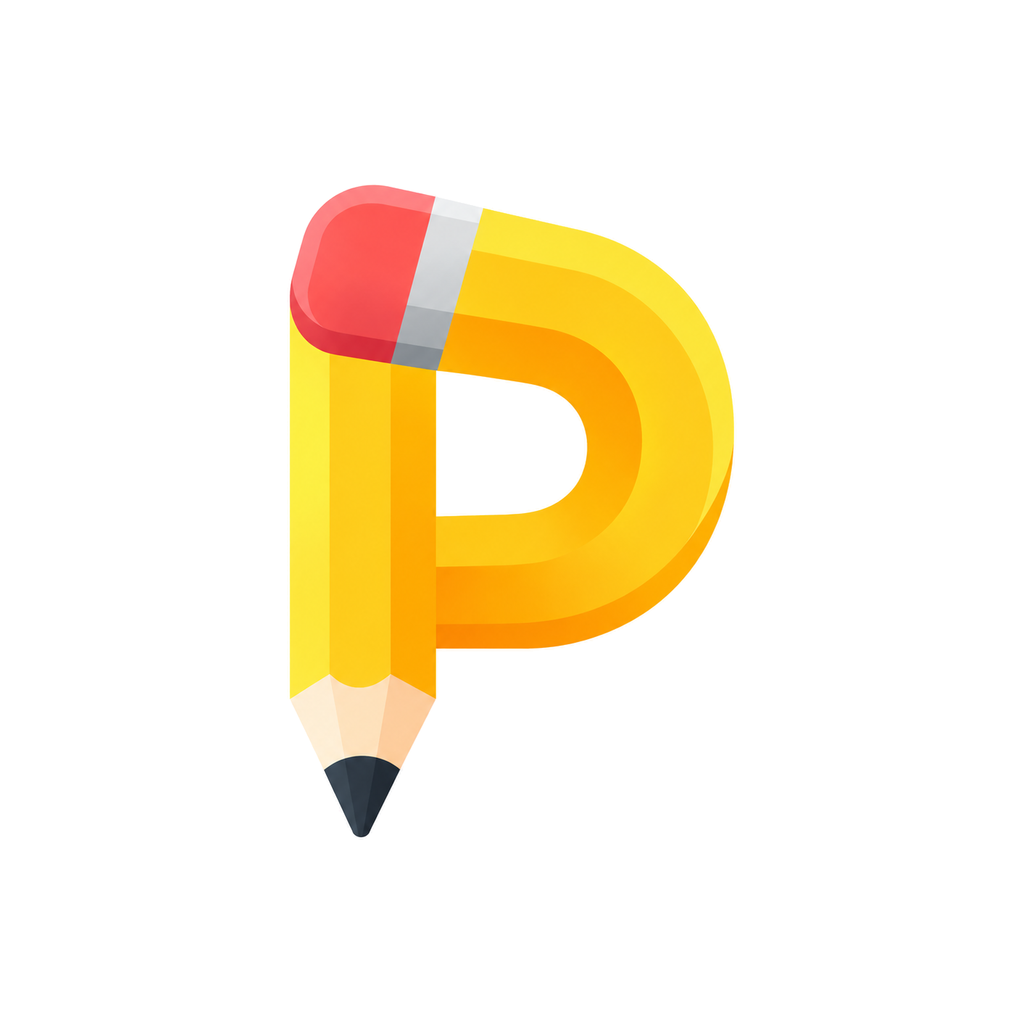
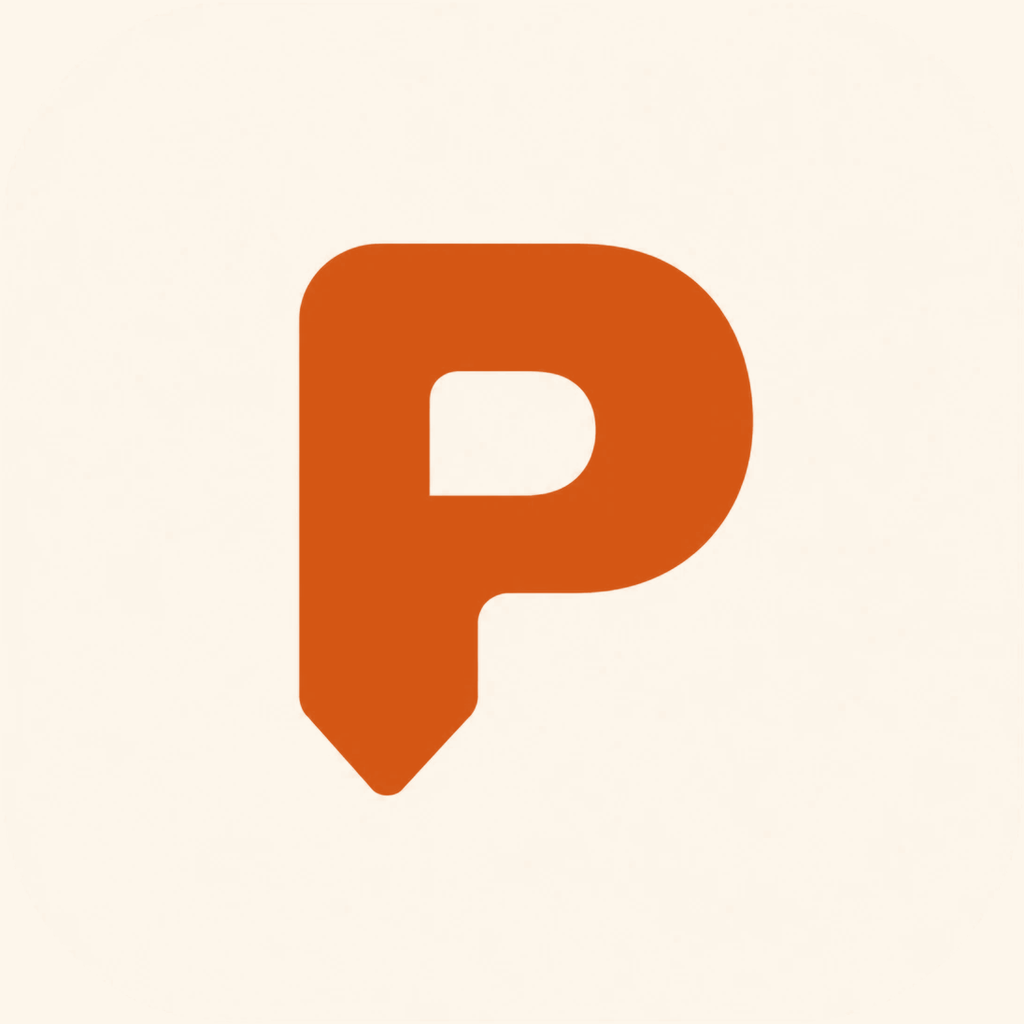
feat(brand,release): 앱 아이콘을 크림 바탕 주황 P 로 바꾸고 안드로이드 테마 아이콘을 더한다 (android versionCode 12)
- icon-source.png 를 새 아이콘으로 바꾼다. 원본은 둥근 모서리와 흰 여백이 그려져 있어
  OS 마스크와 겹치므로, refresh-brand-icons.mjs 가 크림(#FDF6EB)과 주황(#D45614) 두
  색에서 파랑 채널로 P 의 알파를 뽑아 아이콘마다 다시 그린다
  - app-icon(iOS, 웹 파비콘), 스토어 512, 웹 홈 화면: 크림 꽉 찬 정사각형 + P
  - 적응형: 투명 P 전경 + 크림 배경색, adaptive-monochrome.png 로 테마 아이콘 추가
  - 시작 화면: 크림 둥근 사각형 + P
  - 앱 안 로고(symbol.png): P 만 꼭 맞게. 주황 패널에서는 크림 타일 위에
- 1.0.7 versionCode 11 이 이미 올라가 12 로 다시 빌드한다

Changed region(s): [[0.2812, 0.1562, 0.75, 0.8125]]

diff --git a/src/components/ui/Wordmark.tsx b/src/components/ui/Wordmark.tsx
@@ -11,14 +11,15 @@ import { colors, sizes, spacing } from '@/theme/tokens';
 
 const WORDMARK_ASPECT_RATIO = 1315 / 341;
 const wordmarkSource = require('../../../assets/brand/wordmark.png');
-// The app icon's pencil-P, cut tight on white (scripts/refresh-brand-icons.mjs).
+// The app icon's P, cut tight on transparency (scripts/refresh-brand-icons.mjs).
 const symbolSource = require('../../../assets/brand/symbol.png');
-const SYMBOL_ASPECT_RATIO = 351 / 512;
-// A little taller than the wordmark image, so the mark reads at the lettering's
-// cap height plus the pencil tip.
-const SYMBOL_SCALE = 1.2;
-// On a dark panel the mark sits on a white rounded tile, like the app icon.
-const TILE_SCALE = 1.25;
+const SYMBOL_ASPECT_RATIO = 421 / 512;
+// A little taller than the wordmark image, so the P reads a touch above the
+// lettering's cap height, its point dropping below the baseline.
+const SYMBOL_SCALE = 1.1;
+// On a colored panel the P sits on the icon's cream rounded tile.
+const ICON_CREAM = '#FDF6EB';
+const TILE_SCALE = 1.5;
 const TILE_RADIUS = 0.24;
 
 export interface WordmarkProps {
@@ -92,7 +93,7 @@ const styles = StyleSheet.create({
   },
   tile: {
     alignItems: 'center',
-    backgroundColor: colors.textInverse,
+    backgroundColor: ICON_CREAM,
     justifyContent: 'center',
   },
 });
